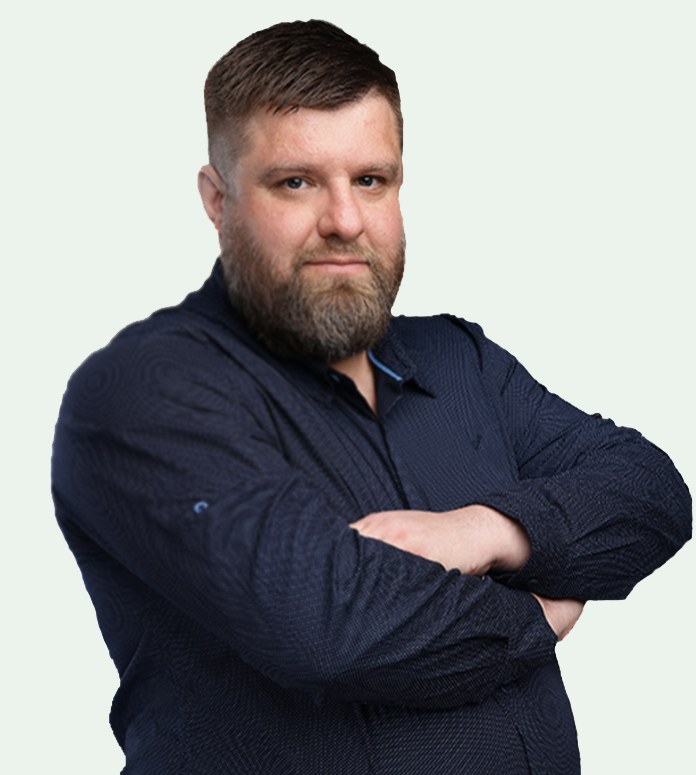
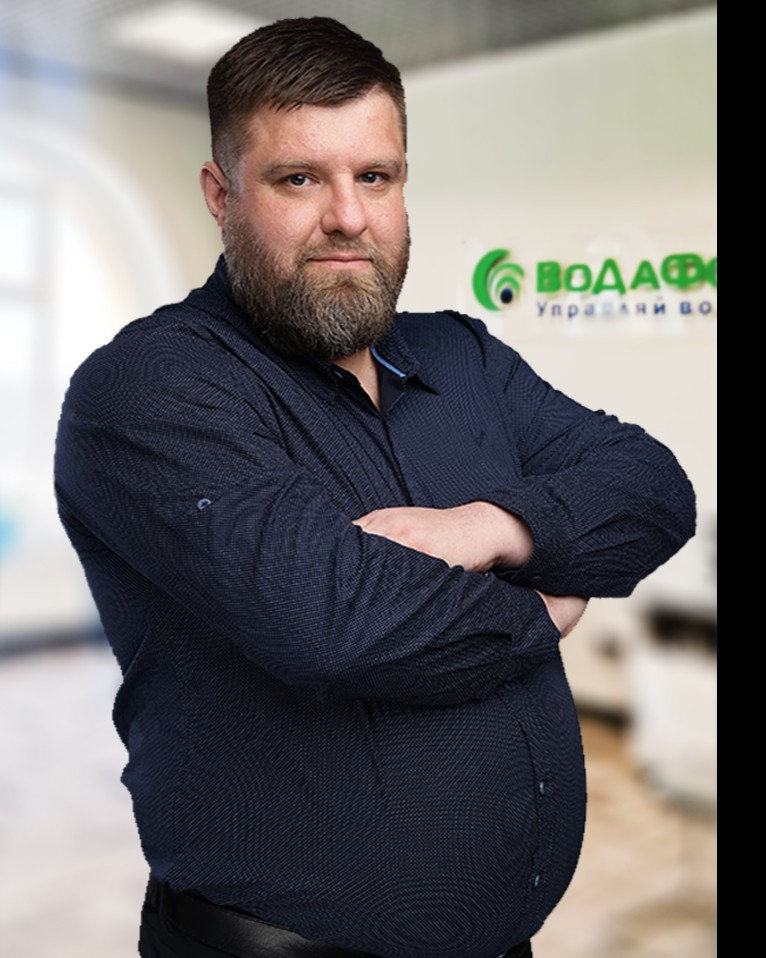
Все демо: акцент на заявку, а не на цену; кнопка квиза на первом экране; ВодаФон — MAX, фото руководителя и карточек

diff --git a/tools/service/build.py b/tools/service/build.py
@@ -220,12 +220,12 @@ def build(slug):
 <main id="top">
 <section class="hero">{pic(img, c["hero"]["image"], c["hero"]["alt"], "100vw", "hero-bg", True)}{f'<video class="hero-video" autoplay muted loop playsinline preload="metadata" poster="{img[c["hero"]["image"]][0][0]}" aria-hidden="true"><source src="{c["hero"]["video"]}" type="video/mp4"></video>' if c["hero"].get("video") else ""}
 <div class="hero-copy"><p class="eyebrow">{e(c["hero"]["eyebrow"])}</p><h1>{c["hero"]["h1"]}</h1><p class="intro">{c["hero"]["intro"]}</p>
-<div class="actions"><a class="button primary" href="#calc">{e(c["hero"]["button"])} ↗</a>{f'<button class="text-button" type="button" data-start-quiz>{e(c["hero"]["quiz"])}</button>' if c["hero"].get("quiz") else ""}</div>{proofs}</div></section>
+<div class="actions"><a class="button primary" href="{c["hero"].get("href", "#request")}">{e(c["hero"]["button"])} ↗</a>{f'<button class="text-button" type="button" data-start-quiz>{e(c["hero"]["quiz"])}</button>' if c["hero"].get("quiz") else ""}</div>{proofs}</div></section>
 {main_html}
 </main>
 
 <footer><a class="brand{' brand--logo' if c.get('logo_only') else ''}" href="#top">{logo_tag}<span>{e(brand.upper())}<small>{e(c["region"])}</small></span></a>{foot}</footer>
-<div class="mobile-bar"><a href="tel:{tel(phone)}" data-goal="call">Позвонить</a><a href="#request" id="bar-chat">Заявка</a><a href="#calc">Цена ↗</a></div>
+<div class="mobile-bar"><a href="tel:{tel(phone)}" data-goal="call">Позвонить</a><a href="#request" id="bar-chat">Заявка</a><a href="#calc">Расчёт ↗</a></div>
 <dialog id="lead-dialog"><button class="close" type="button" data-close aria-label="Закрыть">×</button><p class="eyebrow" id="lead-state"></p><h2 id="lead-title"></h2><p id="lead-note"></p><pre id="lead-text"></pre></dialog>
 <dialog id="photo-dialog"><button class="close" type="button" data-close aria-label="Закрыть фото">×</button><img id="photo-large" alt=""><p id="photo-caption"></p></dialog>
 <script src="config.js?v={V}"></script><script src="app.js?v={V}" defer></script></body></html>
